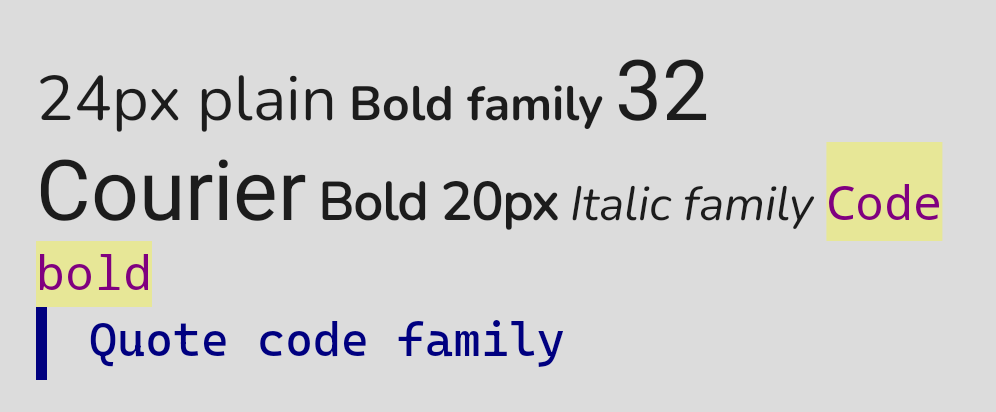
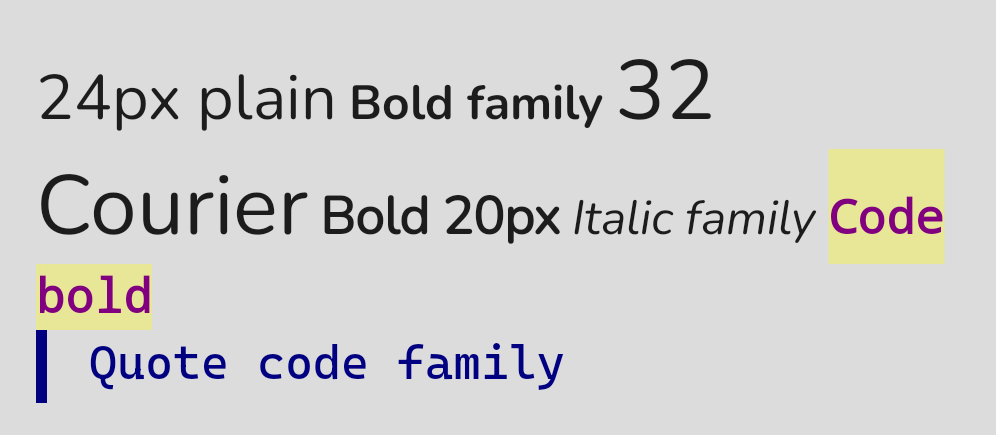
feat(ios, android): make the test screen scroll view keyboard-aware

diff --git a/apps/example/src/screens/TestScreen.tsx b/apps/example/src/screens/TestScreen.tsx
@@ -8,6 +8,7 @@ import { MentionPopup } from '../components/MentionPopup';
 import { ImageModal } from '../components/ImageModal';
 import { ValueModal } from '../components/ValueModal';
 import { useEditorState } from '../hooks/useEditorState';
+import { useKeyboardHeight } from '../hooks/useKeyboardHeight';
 import {
   LINK_REGEX,
   htmlStyle,
@@ -25,12 +26,16 @@ export function TestScreen({
 }: TestScreenProps) {
   const editor = useEditorState();
   const [sizeMode, setSizeMode] = useState<'base' | 'max'>('base');
+  const keyboardHeight = useKeyboardHeight();
 
   return (
     <View style={styles.container}>
       <ScrollView
         style={styles.scrollContainer}
-        contentContainerStyle={styles.scrollContent}
+        contentContainerStyle={[
+          styles.scrollContent,
+          { paddingBottom: styles.scrollContent.padding + keyboardHeight },
+        ]}
         testID="full-screen"
       >
         <View style={styles.buttonStack}>

diff --git a/apps/example/src/hooks/useKeyboardHeight.ts b/apps/example/src/hooks/useKeyboardHeight.ts
@@ -1,0 +1,22 @@
+import { useEffect, useState } from 'react';
+import { Keyboard } from 'react-native';
+
+export function useKeyboardHeight() {
+  const [keyboardHeight, setKeyboardHeight] = useState(0);
+
+  useEffect(() => {
+    const showSubscription = Keyboard.addListener('keyboardDidShow', (e) => {
+      setKeyboardHeight(e.endCoordinates.height);
+    });
+    const hideSubscription = Keyboard.addListener('keyboardDidHide', () => {
+      setKeyboardHeight(0);
+    });
+
+    return () => {
+      showSubscription.remove();
+      hideSubscription.remove();
+    };
+  }, []);
+
+  return keyboardHeight;
+}
